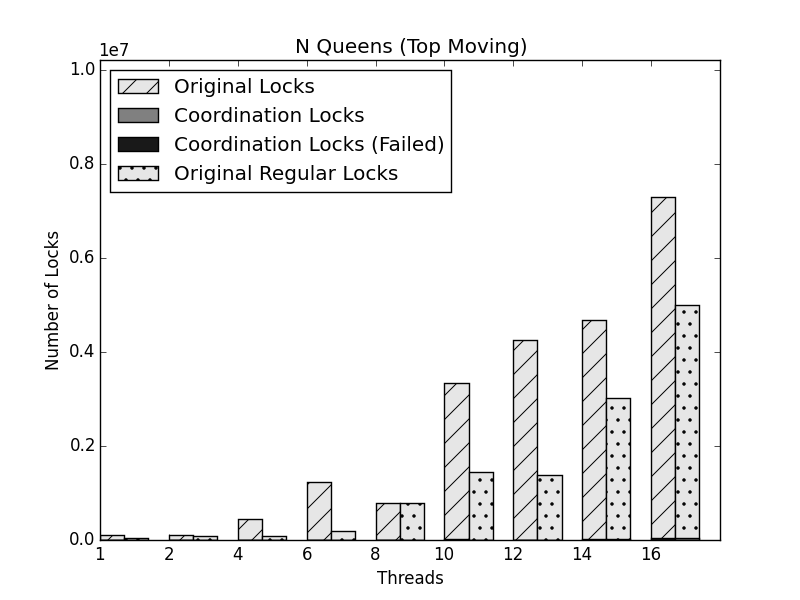
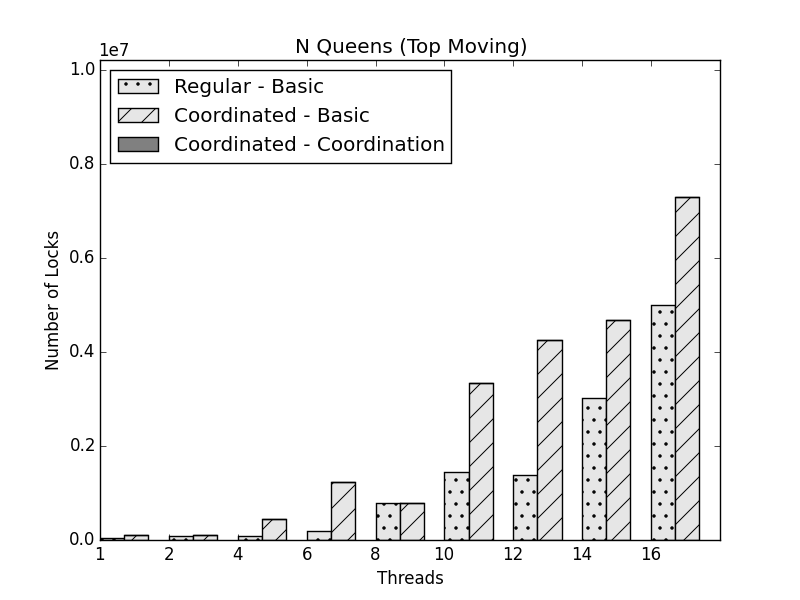
Update pictures.

diff --git a/results/locks/plot_three.py b/results/locks/plot_three.py
@@ -36,21 +36,20 @@ ax.set_ylabel('Number of Locks')
 ax.set_xlabel('Threads')
 ax.set_title(title)
 
-ptotalc = ax.bar(ind, coord_exp.get_total_locks(), width, color=cmap(0.9), hatch='/')
-pcoordc = ax.bar(ind, coord_exp.get_coord_total_locks(), width, color=cmap(0.5))
-pfailc = ax.bar(ind, coord_exp.get_fail_locks(), width, color=cmap(0.1))
+pbasicreg = ax.bar(ind, reg_exp.get_basic_locks(), width, color=cmap(0.9), hatch=".")
 
-ptotalo = ax.bar(ind + width, opt_exp.get_total_locks(), width, color=cmap(0.9), hatch='\\')
-pcoordo = ax.bar(ind + width, opt_exp.get_coord_total_locks(), width, color=cmap(0.5))
-pfailo = ax.bar(ind + width, opt_exp.get_fail_locks(), width, color=cmap(0.1))
+pbasicc = ax.bar(ind + width, coord_exp.get_basic_locks(), width, color=cmap(0.9), hatch='/')
+pcoordc = ax.bar(ind + width, coord_exp.get_coord_total_locks(), width, color=cmap(0.5), bottom=coord_exp.get_basic_locks())
 
-ptotalreg = ax.bar(ind + 2 * width, reg_exp.get_total_locks(), width, color=cmap(0.9), hatch=".")
-pfailreg = ax.bar(ind + 2 * width, reg_exp.get_fail_locks(), width, color=cmap(0.5))
+pbasico = ax.bar(ind + 2 * width, opt_exp.get_basic_locks(), width, color=cmap(0.9), hatch='\\')
+pcoordo = ax.bar(ind + 2 * width, opt_exp.get_coord_total_locks(), width, color=cmap(0.5), bottom=opt_exp.get_basic_locks())
+
 ax.set_ylim([0, max([max(reg_exp.get_total_locks()), max(coord_exp.get_total_locks())])*1.5])
 #ax.set_ylim([0, YAXIS])
 ax.set_xticks(ind)
 ax.get_yaxis().get_major_formatter().set_scientific(True)
 ax.get_yaxis().get_major_formatter().set_powerlimits((-3, 3))
 ax.set_xticklabels(('1', '2', '4', '6', '8', '10', '12', '14', '16'))
-ax.legend((ptotalc, ptotalo, pcoordc, pfailc, ptotalreg), ('Original Locks (Coordinated)', 'Original Locks (' + opt_name + ')', 'Coordination Locks', 'Coordination Locks (Failed)', 'Original Regular Locks'), loc=2)
+ax.legend((pbasicreg, pbasicc, pcoordc, pbasico, pcoordo), ('Regular - Basic', 'Coordinated - Basic',
+         'Coordinated - Coordination', opt_name + ' - Basic', opt_name + ' - Coordination'), loc=2)
 plt.savefig(output_file)

diff --git a/results/locks/lib.py b/results/locks/lib.py
@@ -3,7 +3,7 @@ import re
 YAXIS = 200000000
 
 class dataobj(object):
-   ATTRS = ['coord_normal_lock', 'coord_priority_lock', 'schedule_next_lock', 'add_priority_lock', 'set_priority_lock', 'set_moving_lock', 'set_static_lock', 'set_affinity_lock']
+   COORD_ATTRS = ['coord_normal_lock', 'coord_priority_lock', 'schedule_next_lock', 'add_priority_lock', 'set_priority_lock', 'set_moving_lock', 'set_static_lock', 'set_affinity_lock']
 
    def set(self, name, fail, total):
       self.info_fail[name] = fail
@@ -18,14 +18,17 @@ class dataobj(object):
    def total_locks(self):
       return sum(total for name, total in self.info_total.iteritems())
 
+   def total_basic_locks(self):
+      return self.total_locks() - self.total_coord_locks()
+
    def total_fail(self):
       return sum(total for name, total in self.info_fail.iteritems())
 
    def total_coord_locks(self):
-      return sum(self.get_total(name) for name in self.ATTRS)
+      return sum(self.get_total(name) for name in self.COORD_ATTRS)
 
    def fail_coord_locks(self):
-      return sum(self.get_fail(name) for name in self.ATTRS)
+      return sum(self.get_fail(name) for name in self.COORD_ATTRS)
 
    def frac_coord_locks(self):
       return (float(self.total_coord_locks()) / float(self.total_locks())) * 100
@@ -68,6 +71,9 @@ class experiment(object):
 
    def get_total_locks(self):
       return [data.total_locks() for th, data in sorted(self.threads.iteritems())]
+
+   def get_basic_locks(self):
+      return [data.total_basic_locks() for th, data in sorted(self.threads.iteritems())]
 
    def get_threads(self):
       return [th for th in sorted(self.threads.keys())]

diff --git a/results/locks/plot.py b/results/locks/plot.py
@@ -28,14 +28,15 @@ ax = fig.add_subplot(111)
 ax.set_ylabel('Number of Locks')
 ax.set_xlabel('Threads')
 ax.set_title(title)
-ptotal = ax.bar(ind, coord_exp.get_total_locks(), width, color=cmap(0.9), hatch='/')
-pcoord = ax.bar(ind, coord_exp.get_coord_total_locks(), width, color=cmap(0.5))
-pfail = ax.bar(ind, coord_exp.get_fail_locks(), width, color=cmap(0.1))
-ptotalreg = ax.bar(ind + width, reg_exp.get_total_locks(), width, color=cmap(0.9), hatch=".")
-pfailreg = ax.bar(ind + width, reg_exp.get_fail_locks(), width, color=cmap(0.5))
+
+pbasicreg = ax.bar(ind, reg_exp.get_basic_locks(), width, color=cmap(0.9), hatch=".")
+
+pcoordbasic = ax.bar(ind + width, coord_exp.get_basic_locks(), width, color=cmap(0.9), hatch='/')
+pcoordcoord = ax.bar(ind + width, coord_exp.get_coord_total_locks(), width, color=cmap(0.5), bottom=coord_exp.get_basic_locks())
+
 ax.set_ylim([0, max([max(reg_exp.get_total_locks()), max(coord_exp.get_total_locks())])*1.4])
 #ax.set_ylim([0, YAXIS])
 ax.set_xticks(ind)
 ax.set_xticklabels(('1', '2', '4', '6', '8', '10', '12', '14', '16'))
-ax.legend((ptotal, pcoord, pfail, ptotalreg), ('Original Locks', 'Coordination Locks', 'Coordination Locks (Failed)', 'Original Regular Locks'), loc=2)
+ax.legend((pbasicreg, pcoordbasic, pcoordcoord), ('Regular - Basic', 'Coordinated - Basic', 'Coordinated - Coordination'), loc=2)
 plt.savefig(output_file)
